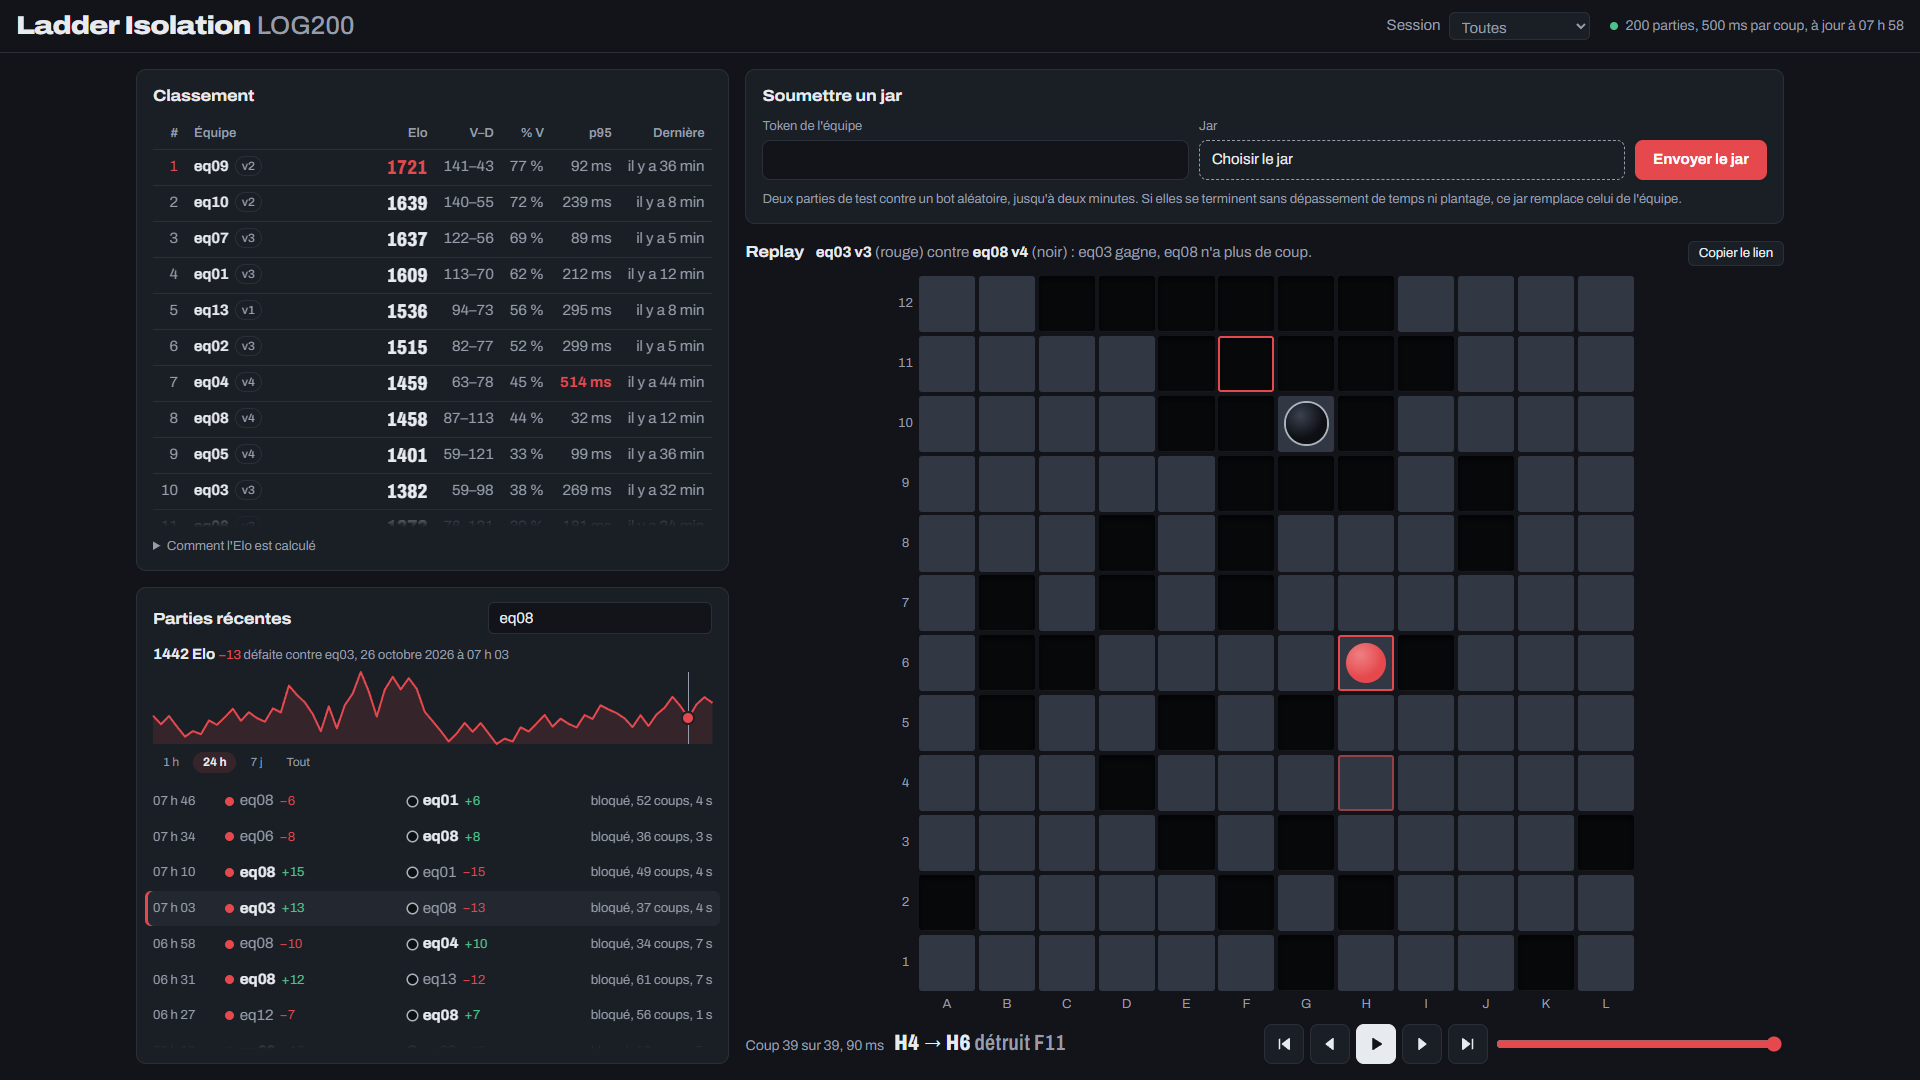
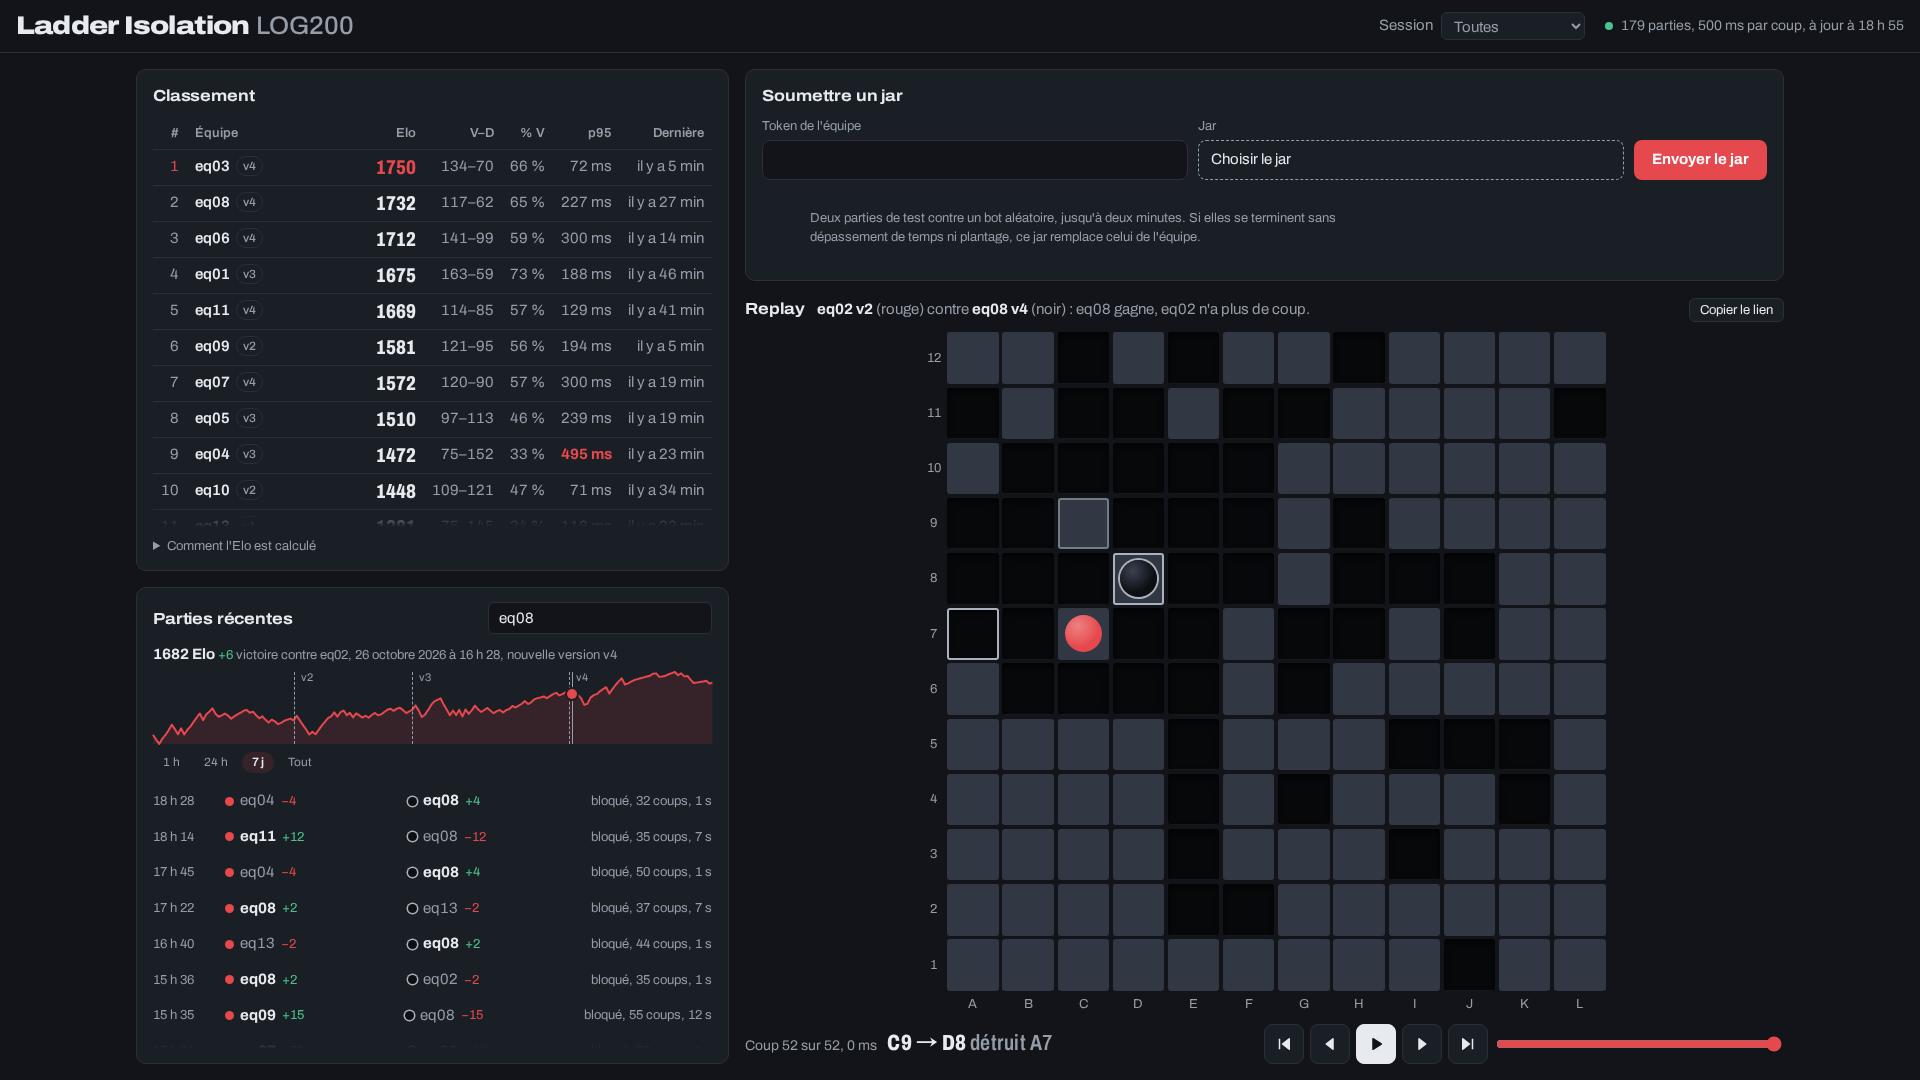
feat: add version markers to Elo chart and update README with new features

diff --git a/web/app.js b/web/app.js
@@ -4,7 +4,7 @@
 // sert la page. Données : ?data=URL du dossier, sinon <serveur>/data.
 // ?session=, ?team=, ?window= et ?game= suivent les choix de la page : l'adresse se partage telle quelle.
 
-import { parseJsonl, since } from './elo.js'
+import { parseJsonl, since, versionStarts } from './elo.js'
 import { BLACK, DESTROYED, positions, RED, SIZE, squareName } from './replay.js'
 
 const params = new URLSearchParams(location.search)
@@ -282,15 +282,18 @@ function renderChart(ratings, rows, key) {
     $('elo-chart').hidden = !r
     const history = r
         ? rows.map((g) => {
-            const [rating, delta] = (g.red.team === r.team ? g.red : g.black)[key]
-            return { id: g.id, ts: g.ts, rating, delta, game: g }
+            const side = g.red.team === r.team ? g.red : g.black
+            const [rating, delta] = side[key]
+            return { id: g.id, ts: g.ts, rating, delta, game: g, build: side.build, version: version(side) }
         })
         : []
+    for (const k of versionStarts(history)) history[k].newVersion = true
     const w = document.querySelector('#elo-window input:checked')?.value
     const { start, points: recent } = r ? since(history, Date.now() - (WINDOWS[w] ?? Infinity)) : { points: [] }
     $('elo-plot').hidden = !recent.length
     if (!recent.length) {
         chart.points = []
+        $('elo-versions').replaceChildren()
         if (r)
             $('elo-caption').replaceChildren(
                 el('strong', {}, `${Math.round(start)} Elo`),
@@ -314,6 +317,15 @@ function renderChart(ratings, rows, key) {
     stroke.setAttribute('points', line)
     svg.setAttribute('viewBox', `0 0 ${values.length - 1} ${bottom}`)
     svg.replaceChildren(area, stroke)
+    $('elo-versions').replaceChildren(
+        ...points.flatMap((p, i) => {
+            if (!p.newVersion) return []
+            const left = (i - 1) / (points.length - 1)
+            const marker = el('div', { class: `elo-version${left > 0.9 ? ' end' : ''}`, 'data-label': p.version })
+            marker.style.left = `${100 * left}%`
+            return [marker]
+        })
+    )
     $('elo-plot').setAttribute('aria-valuemax', String(values.length - 1))
     placeCursor(replayPoint())
 }
@@ -340,7 +352,8 @@ function placeCursor(i) {
         const color = p.game.red.team === team ? 'red' : 'black'
         const opponent = p.game[color === 'red' ? 'black' : 'red'].team
         const d = roundDelta(p.delta)
-        const context = ` ${p.game.winner === color ? 'victoire' : 'défaite'} contre ${opponent}, ${fullFormat.format(new Date(p.ts))}`
+        const release = p.newVersion ? `, nouvelle version ${p.version}` : ''
+        const context = ` ${p.game.winner === color ? 'victoire' : 'défaite'} contre ${opponent}, ${fullFormat.format(new Date(p.ts))}${release}`
         if (d) parts.push(' ', el('span', { class: `delta ${d > 0 ? 'up' : 'down'}` }, signed(d)))
         parts.push(el('span', {}, context))
         text += `${d ? ` (${signed(d)})` : ''},${context}`

diff --git a/web/style.css b/web/style.css
@@ -869,6 +869,32 @@ input[type='range'] {
     pointer-events: none;
 }
 
+.elo-version {
+    position: absolute;
+    top: 0;
+    bottom: 0;
+    border-left: 1px dashed var(--muted);
+    pointer-events: none;
+}
+
+.elo-version::after {
+    content: attr(data-label);
+    position: absolute;
+    top: -2px;
+    left: 3px;
+    padding: 0 3px;
+    border-radius: 3px;
+    background: var(--surface);
+    color: var(--muted);
+    font-size: 0.6875rem;
+    line-height: 1.3;
+}
+
+.elo-version.end::after {
+    left: auto;
+    right: 3px;
+}
+
 .elo-dot {
     position: absolute;
     width: 10px;
@@ -880,7 +906,6 @@ input[type='range'] {
     pointer-events: none;
 }
 
-/* Radios natives en pastilles : clavier et lecteurs d'écran sans code. */
 .elo-window {
     display: flex;
     gap: 4px;

diff --git a/web/index.html b/web/index.html
@@ -152,6 +152,7 @@
                 <div id="elo-plot" class="elo-plot" role="slider" tabindex="0" aria-valuemin="0"
                     aria-label="Parties de l'équipe : flèches pour parcourir, Entrée pour rejouer">
                     <svg id="elo-line" aria-hidden="true" preserveAspectRatio="none"></svg>
+                    <div id="elo-versions" aria-hidden="true"></div>
                     <div id="elo-cursor" class="elo-cursor"></div>
                     <div id="elo-dot" class="elo-dot"></div>
                 </div>

diff --git a/web/elo.js b/web/elo.js
@@ -25,3 +25,11 @@ export function since(history, cutoff) {
     const first = i === -1 ? history.length : i
     return { start: history[first - 1]?.rating ?? START, points: history.slice(first) }
 }
+
+export function versionStarts(history) {
+    const starts = []
+    for (let k = 1; k < history.length; k++) {
+        if (history[k].build && history[k].build !== history[k - 1].build) starts.push(k)
+    }
+    return starts
+}

diff --git a/README.md b/README.md
@@ -4,9 +4,9 @@ Live leaderboard (Elo, game history, replays) for the Isolation lab of LOG200.
 
 ![Leaderboard page: Elo ranking, recent games and the replay of one game](docs/images/leaderboard.png)
 
-Search for a team above the recent games to see only its games and, once a single team matches, its Elo over time, over the last hour, day, week or all games. The address follows the choices (`?team=eq08`, `?window=24h`, `?game=<id>`), so a filtered view or a single game can be shared as a link ("Copier le lien" above the replay).
+Search for a team above the recent games to see only its games and, once a single team matches, its Elo over time, over the last hour, day, week or all games, with a dashed mark where each new jar version (v2, v3…) starts. The address follows the choices (`?team=eq08`, `?window=24h`, `?game=<id>`), so a filtered view or a single game can be shared as a link ("Copier le lien" above the replay).
 
-![Leaderboard filtered on one team: Elo curve over the last 24 hours above its recent games, and a shared game in the replay](docs/images/leaderboard-team.png)
+![Leaderboard filtered on one team: Elo curve over the last 7 days with a mark at each new version (v2, v3, v4) above its recent games, and the first game of v4 in the replay](docs/images/leaderboard-team.png)
 
 Each team submits its jar; the ladder makes the teams play each other around the clock and the page shows the result:
 
